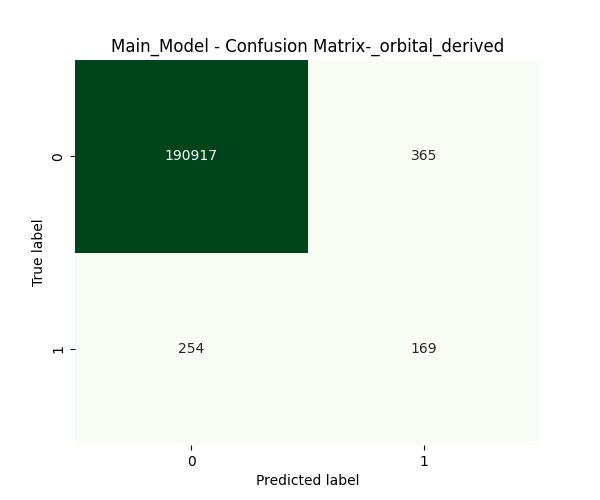
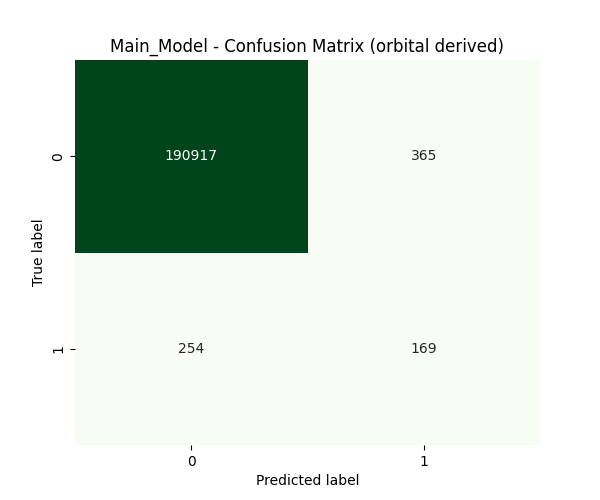
comparison of scores

Changed region(s): [[0.18, 0.06, 0.84, 0.12]]

diff --git a/src/evaluation/eval.py b/src/evaluation/eval.py
@@ -4,7 +4,7 @@ from sklearn.metrics import accuracy_score, precision_score, recall_score, f1_sc
 import pandas as pd
 import os
 
-def run_evaluation(y_test, y_pred, model_name, cmap="Blues", filename_suffix=""):
+def run_evaluation(y_test, y_pred, model_name, cmap="Blues", save_plots=True, filename_suffix=""):
     """
     Evaluates a model, prints the classification report, and saves the confusion matrix.
     """
@@ -33,17 +33,23 @@ def run_evaluation(y_test, y_pred, model_name, cmap="Blues", filename_suffix="")
     cm = confusion_matrix(y_test, y_pred)
     plt.figure(figsize=(6, 5))
     sns.heatmap(cm, annot=True, fmt='d', cmap=cmap, cbar=False)
-    plt.title(f'{model_name} - Confusion Matrix-{filename_suffix}')
+    
+    # Clean title formatting
+    clean_suffix = filename_suffix.replace('_', ' ').strip()
+    title_text = f'{model_name} - Confusion Matrix ({clean_suffix})' if clean_suffix else f'{model_name} - Confusion Matrix'
+    plt.title(title_text)
+    
     plt.ylabel('True label')
     plt.xlabel('Predicted label')
     
     # Save with dynamic filename
-    os.makedirs("plots", exist_ok=True)
-    # e.g., plots/confusion_matrix_Main_Model_physical.png
-    save_path = f"plots/confusion_matrix_{model_name}{filename_suffix}.png"
-    plt.savefig(save_path)
+    if save_plots:
+        os.makedirs("plots", exist_ok=True)
+        save_path = f"plots/confusion_matrix_{model_name}{filename_suffix}.png"
+        plt.savefig(save_path)
+        print(f"Saved confusion matrix to {save_path}")
+    
     plt.close()
-    print(f"Saved confusion matrix to {save_path}")
 
     return results
 
@@ -64,14 +70,13 @@ def compare_models(results_baseline, results_main, filename_suffix=""):
 
     plt.xlabel('Metric')
     plt.ylabel('Score')
-    # Add the 'f' at the start
-    plt.title(f'Model Comparison {filename_suffix}')
+    
+    clean_suffix = filename_suffix.replace('_', ' ').strip()
+    title_text = f'Model Comparison ({clean_suffix})' if clean_suffix else 'Model Comparison'
+    plt.title(title_text)
+    
     plt.xticks(x, metrics)
     plt.ylim(0, 1.1)
     plt.legend()
     
-    # Save with dynamic filename
-    save_path = f"plots/model_comparison{filename_suffix}.png"
-    plt.savefig(save_path)
-    plt.close()
-    print(f"Saved comparison plot to {save_path}")
+    save_p

diff --git a/src/main.py b/src/main.py
@@ -8,7 +8,7 @@ from models.baseline import BaselineModel
 from models.main_model import MainModel
 from preprocessing.data_preprocessing import preprocess_data
 from preprocessing.data_preprocessing import normalize_data
-from evaluation.eval import run_evaluation, compare_models
+from evaluation.eval import run_evaluation, compare_models, log_experiment_results, plot_summary_metrics
 
 """
 Main execution script for training, tuning, and evaluating models.
@@ -159,30 +159,4 @@ if __name__ == "__main__":
     if args.model_load_path == 'trained_model.joblib':
         args.model_load_path = f'trained_model{feature_suffix}.joblib'
         
-    if args.model_save_path == 'trained_model.joblib':
-        args.model_save_path = f'trained_model{feature_suffix}.joblib'
-    # --- NEW CODE END ---
-
-    # Hyperparameter tuning if asked for in args
-    if args.hyperparameter_tune:
-        mm.hyperparameter_tuning(X_train_norm, y_train)
-
-    # Get model (this will now look for 'trained_model_physical.joblib', fail to find it, and create a new one!)
-    model, is_loaded = mm.get_model(load_path=args.model_load_path)
-
-    # Trains the model (if not loaded from file) and saves it
-    if not is_loaded:
-        model = mm.train(model, X_train_norm, y_train, save_path=args.model_save_path)
-
-    # Run models (run on X_test, returns y_pred)
-    y_pred_main_model = mm.predict(model, X_test_norm)
-    y_baseline_pred = baseline.predict(X_test_norm)
-
-    print(f"Saving plots with suffix: {feature_suffix}")
-
-    # Evaluate each model individually
-    results_baseline = run_evaluation(y_test, y_baseline_pred, model_name="Baseline_Model", cmap="Blues", filename_suffix="")
-    results_main = run_evaluation(y_test, y_pred_main_model, model_name="Main_Model", cmap="Greens", filename_suffix=feature_suffix)
-
-    # Compare them visually and numerically
-    compare_models(results_baseline, results_main, filename_suffix=feature_suffix)
+    if args.m
